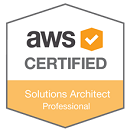
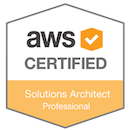
replaced images with transparent background

diff --git a/src/index.html b/src/index.html
@@ -314,7 +314,7 @@
                     </div>
 		    <div class="item">
                       <a href="https://www.certmetrics.com/amazon/public/badge.aspx?i=4&t=c&d=2018-03-07&ci=AWS00186920" target="_blank">
-                      <img alt="background" src="img/badge5.png">
+                      <img alt="background" src="img/badge5.png?v=2">
                       </a>
                     </div>
                     </div>
